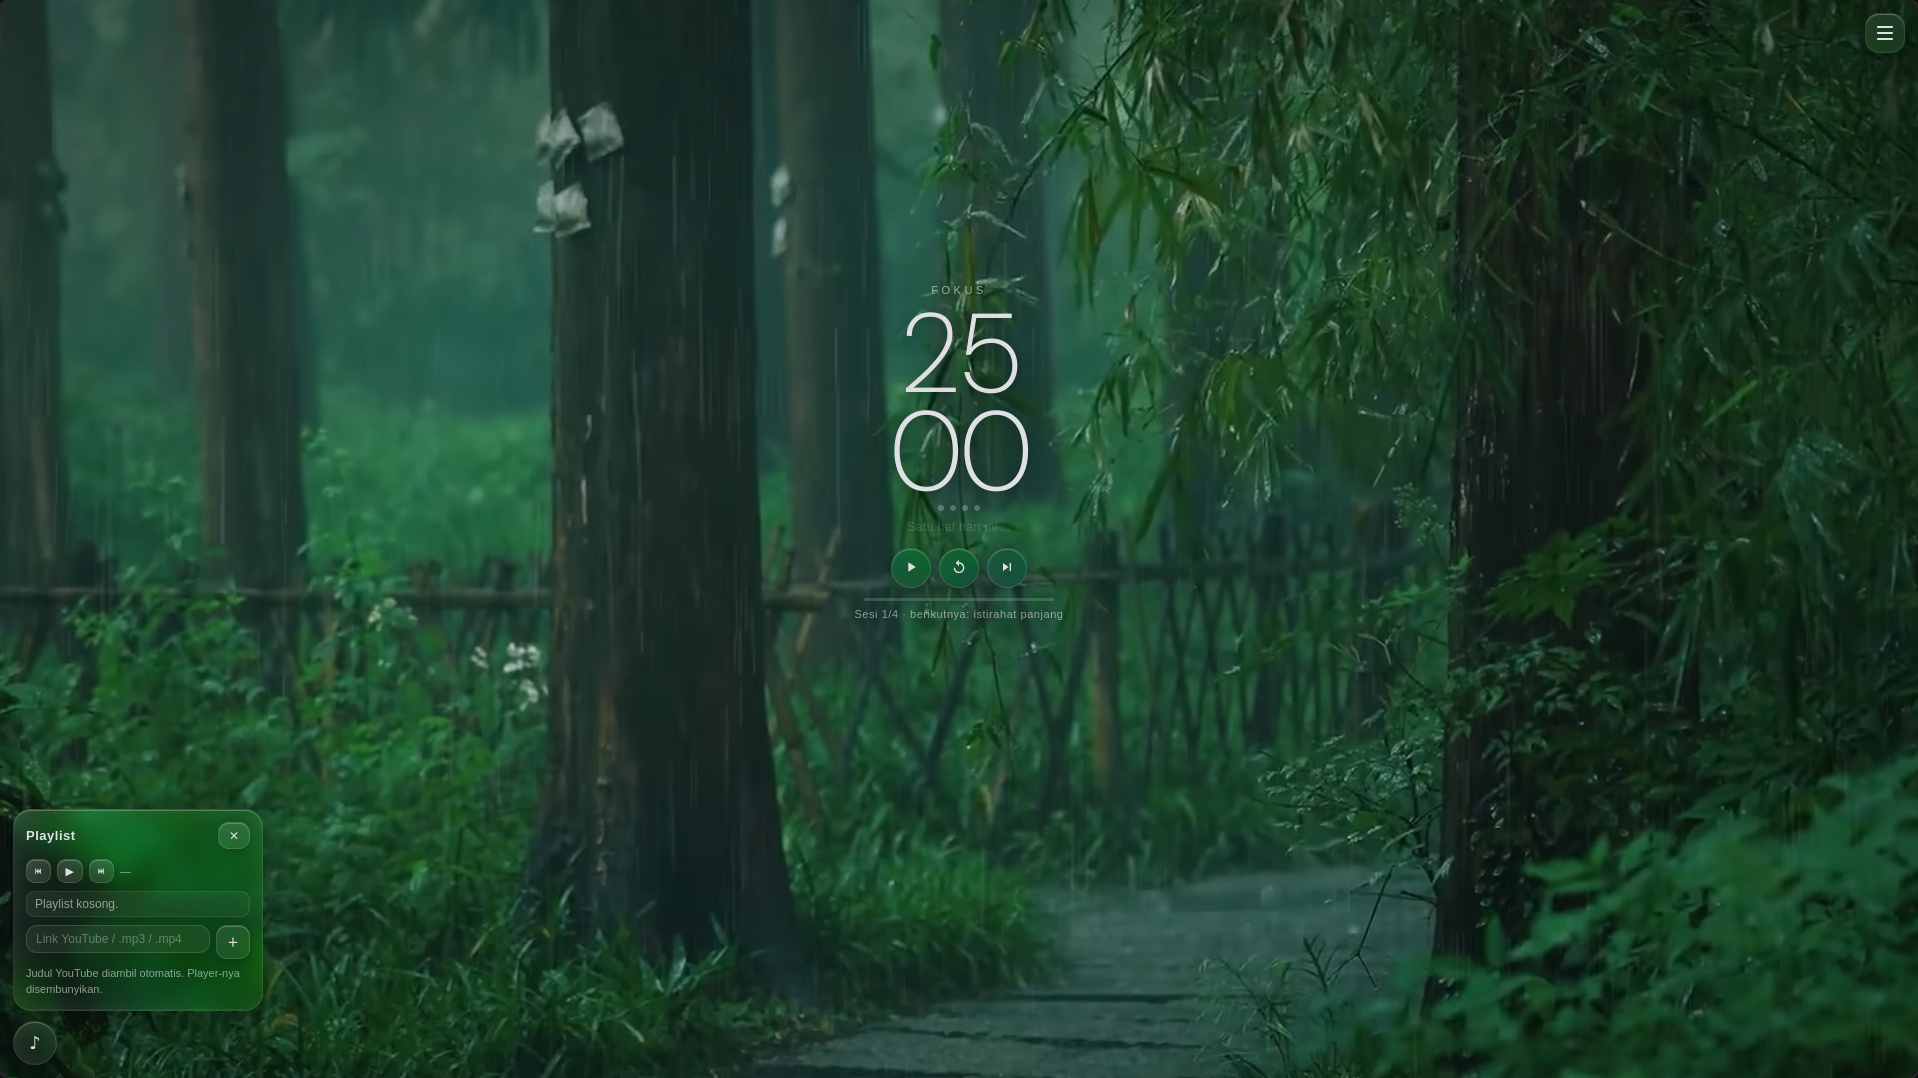
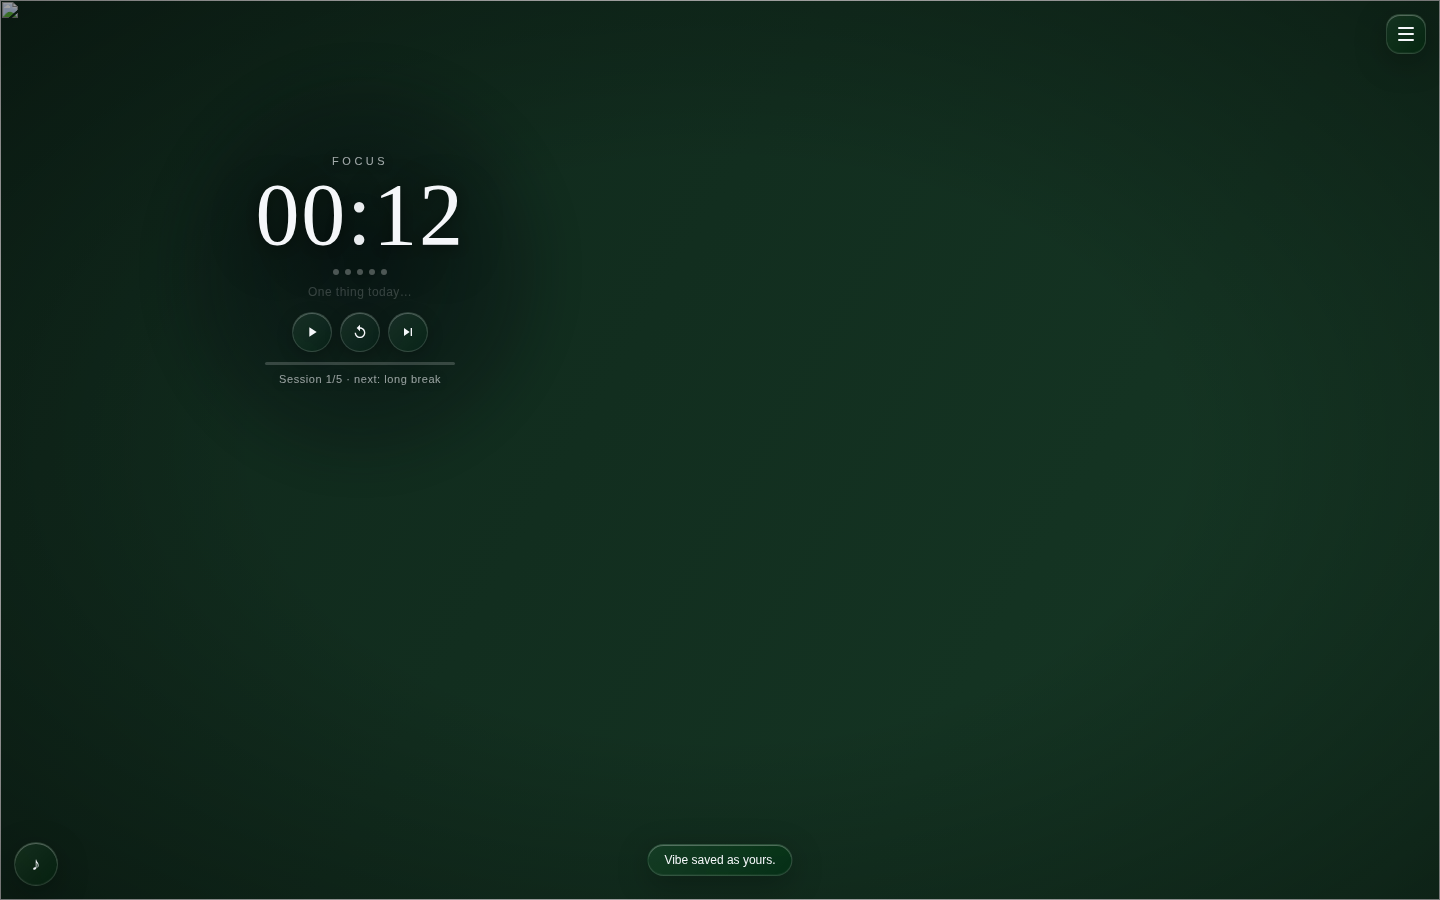
v5.3: landing fallback + settings pills polish
- Fallback gradient: purple -> deep forest green (on-brand, calm)
- Settings pills: taller padding, larger text, rounder corners across
  dropdowns, inputs, wide buttons, steppers; roomier panel + groups

diff --git a/styles.css b/styles.css
@@ -52,8 +52,8 @@ body {
   border-radius: 14px;
   box-shadow: 0 4px 16px rgba(0, 0, 0, 0.22), inset 0 1px 0 rgba(255, 255, 255, 0.25);
   cursor: pointer;
-  padding: 7px 11px;
-  font-size: 13px;
+  padding: 11px 14px;
+  font-size: 14px;
   transition: transform .15s ease, background .15s ease, box-shadow .15s ease;
   display: inline-flex;
   align-items: center;
@@ -62,8 +62,8 @@ body {
 }
 .glass-btn:hover { background: linear-gradient(135deg, rgba(255, 255, 255, 0.15), rgba(255, 255, 255, 0.06)); transform: translateY(-1px); }
 .glass-btn:active { transform: translateY(1px) scale(.97); }
-.glass-btn.small { padding: 5px 10px; font-size: 12px; border-radius: 11px; }
-.glass-btn.wide { width: 100%; margin-top: 6px; }
+.glass-btn.small { padding: 9px 13px; font-size: 13px; border-radius: 12px; }
+.glass-btn.wide { width: 100%; margin-top: 8px; }
 .glass-btn.danger { border-color: rgba(255, 120, 120, 0.45); color: #ffc9c9; }
 .glass-btn.active { background: rgba(46, 229, 125, 0.20); border-color: rgba(46, 229, 125, 0.45); }
 
@@ -74,7 +74,7 @@ body {
 .bg-layer { position: fixed; inset: 0; z-index: -1; overflow: hidden; background: #0b0e14; }
 .bg-gradient {
   position: absolute; inset: 0;
-  background: linear-gradient(120deg, #1b2a4a, #3b1f4e 45%, #0e3a3a 80%, #1b2a4a);
+  background: linear-gradient(120deg, #0c1f16, #163825 45%, #07130d 80%, #0c1f16);
   background-size: 300% 300%;
   animation: bgdrift 24s ease-in-out infinite alternate;
 }
@@ -355,12 +355,12 @@ body.hening .chrome-fade { opacity: 0; pointer-events: none; }
 .icon-btn[aria-expanded="true"] span:nth-child(2) { opacity: 0; }
 .icon-btn[aria-expanded="true"] span:nth-child(3) { transform: translateY(-6px) rotate(-45deg); }
 
-/* ---------- Settings panel (compact) ---------- */
-.panel { position: fixed; z-index: 30; padding: 14px 16px; }
+/* ---------- Settings panel ---------- */
+.panel { position: fixed; z-index: 30; padding: 18px 20px; }
 
 #settingsPanel {
   top: 62px; right: 14px;
-  width: min(92vw, 320px);
+  width: min(92vw, 340px);
   max-height: calc(100vh - 90px);
   max-height: calc(100dvh - 90px);
   overflow-y: auto;
@@ -371,23 +371,23 @@ body.hening .chrome-fade { opacity: 0; pointer-events: none; }
 .panel-head { display: flex; align-items: center; justify-content: space-between; margin-bottom: 10px; }
 .panel-head h2 { font-size: 14px; font-weight: 600; letter-spacing: 0.04em; }
 
-.set-group { margin-bottom: 14px; }
+.set-group { margin-bottom: 18px; }
 .set-group:last-child { margin-bottom: 2px; }
-.set-group h3 { font-size: 11px; letter-spacing: 0.16em; text-transform: uppercase; color: var(--text-dim); margin-bottom: 8px; font-weight: 600; }
+.set-group h3 { font-size: 11px; letter-spacing: 0.16em; text-transform: uppercase; color: var(--text-dim); margin-bottom: 10px; font-weight: 600; }
 
 /* glass dropdown button (shared look with the old native select) */
 .glass-select {
   width: 100%;
   font-family: var(--font);
-  font-size: 13px;
+  font-size: 14px;
   color: var(--text);
   background-color: rgba(255, 255, 255, 0.07);
   border: 1px solid var(--glass-border);
-  border-radius: 11px;
-  padding: 9px 12px;
+  border-radius: 14px;
+  padding: 12px 14px;
   outline: none;
   cursor: pointer;
-  margin-bottom: 4px;
+  margin-bottom: 6px;
 }
 .glass-select:hover { background-color: rgba(255, 255, 255, 0.12); }
 .glass-select:focus-visible { border-color: var(--accent); }
@@ -408,8 +408,8 @@ body.hening .chrome-fade { opacity: 0; pointer-events: none; }
   border-radius: 14px;
 }
 .dd-list li {
-  padding: 9px 12px; border-radius: 9px;
-  font-size: 13px; color: var(--text);
+  padding: 11px 14px; border-radius: 10px;
+  font-size: 14px; color: var(--text);
   cursor: pointer; white-space: nowrap; overflow: hidden; text-overflow: ellipsis;
 }
 .dd-list li + li { margin-top: 2px; }
@@ -426,9 +426,9 @@ input[type="text"], input[type="url"], input[type="number"] {
   color: var(--text);
   background: rgba(255, 255, 255, 0.07);
   border: 1px solid var(--glass-border);
-  border-radius: 11px;
-  padding: 7px 10px;
-  font-size: 13px;
+  border-radius: 14px;
+  padding: 11px 13px;
+  font-size: 14px;
   outline: none;
   width: 100%;
 }
@@ -442,39 +442,39 @@ input[type="number"] { padding: 7px 6px 7px 10px; }
 .stepper {
   display: flex;
   align-items: center;
-  gap: 8px;
-  margin: 6px 0;
+  gap: 10px;
+  margin: 8px 0;
 }
 .step-label {
   flex: 1;
-  font-size: 13px;
+  font-size: 14px;
   color: var(--text);
 }
 .step-btn {
-  width: 30px; height: 30px;
+  width: 34px; height: 34px;
   border-radius: 9999px;
   padding: 0;
-  font-size: 16px;
+  font-size: 18px;
   line-height: 1;
   flex: none;
 }
 .step-val {
-  min-width: 44px;
+  min-width: 52px;
   text-align: center;
-  font-size: 14px;
+  font-size: 15px;
   font-variant-numeric: tabular-nums;
   color: var(--text);
   background: rgba(255, 255, 255, 0.07);
   border: 1px solid var(--glass-border);
-  border-radius: 10px;
-  padding: 5px 4px;
+  border-radius: 12px;
+  padding: 8px 6px;
 }
 
-.check { display: flex; align-items: center; gap: 8px; font-size: 13px; margin: 7px 0; cursor: pointer; }
+.check { display: flex; align-items: center; gap: 9px; font-size: 14px; margin: 9px 0; cursor: pointer; }
 /* custom checkbox: glass box, leaf-green fill, dark check */
 .check input[type="checkbox"] {
   appearance: none; -webkit-appearance: none;
-  width: 17px; height: 17px; flex: none; margin: 0;
+  width: 18px; height: 18px; flex: none; margin: 0;
   border-radius: 6px;
   border: 1.5px solid rgba(255, 255, 255, 0.28);
   background: rgba(255, 255, 255, 0.07);
